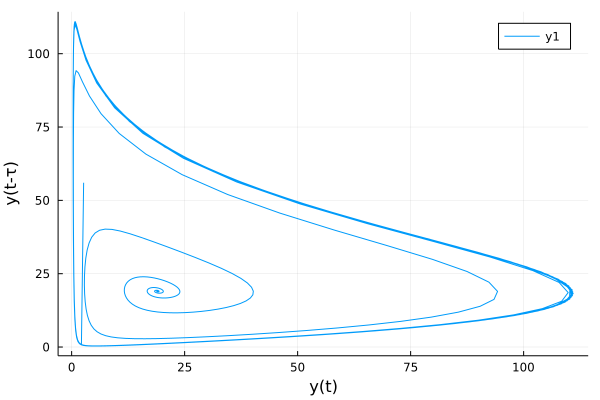
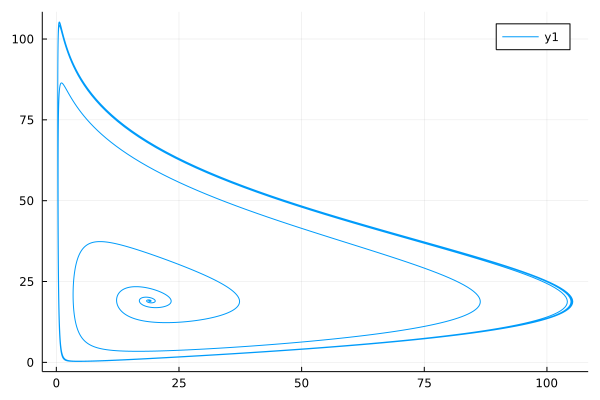
Add DelayPECE solver for multiple lags FDDE

Changed region(s): [[0.0, 0.03, 0.99, 0.99], [0.81, 0.03, 0.96, 0.15]]

diff --git a/docs/src/fdde.md b/docs/src/fdde.md
@@ -44,6 +44,32 @@ plot(y, V, xlabel="y(t)", ylabel="y(t-τ)")
 
 ![Delayed](./assets/fdde_example.png)
 
+## FDDE with multiple lags
+
+```math
+{_0^CD_t^\alpha}y(t)=\frac{2y(t-2)}{1+y(t-2.6)^{9.65}}-y(t)\\
+
+y(t)=0.5,\ t\leq0
+```
+
+```julia
+using FractionalDiffEq, Plots
+α = 0.95; ϕ(x) = 0.5
+τ = [2, 2.6]
+fun(t, y, ϕ1, ϕ2) = 2*ϕ1/(1+ϕ2^9.65)-y
+prob = FDDEProblem(fun, ϕ, α, τ, 100)
+delayed, y = solve(prob, 0.01, DelayPECE())
+
+p1=plot(delayed[1, :], y)
+p2=plot(delayed[2, :], y)
+plot(p1, p2, layout=(1, 2))
+```
+
+![fdde_multiple_lags](./assets/fdde_multiple_lags.png)
+
+![fdde_multiple_lags12](./assets/fdde_multiple_lags12.png)
+
+
 ## System of FDDE
 
 Time delay [Chen system](https://en.wikipedia.org/wiki/Multiscroll_attractor) as a famous chaotic system with time delay, has important applications in many fields.
